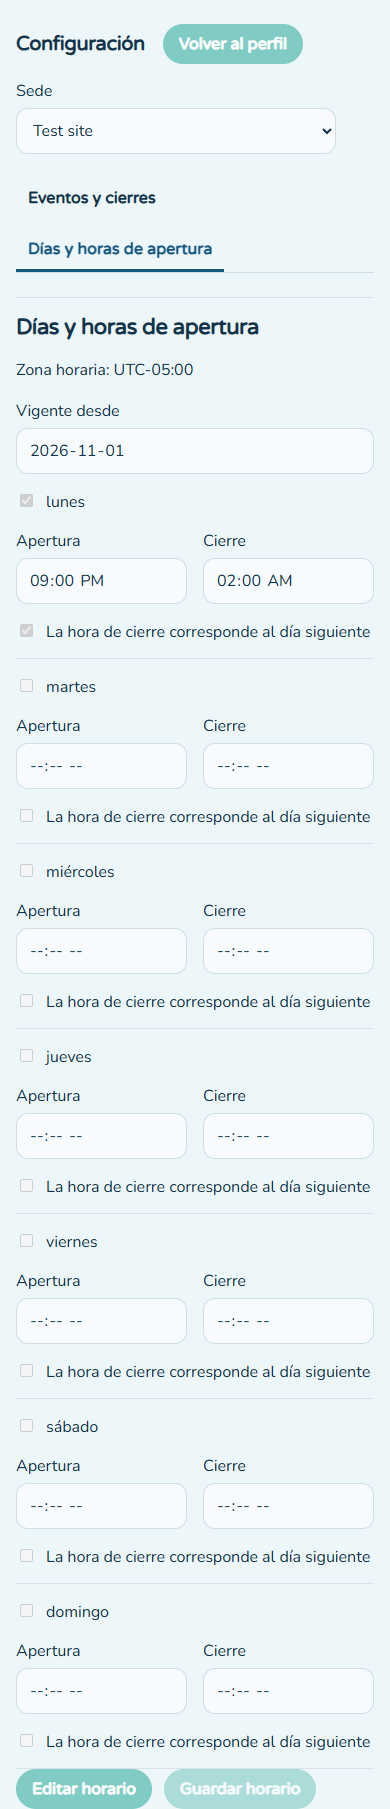
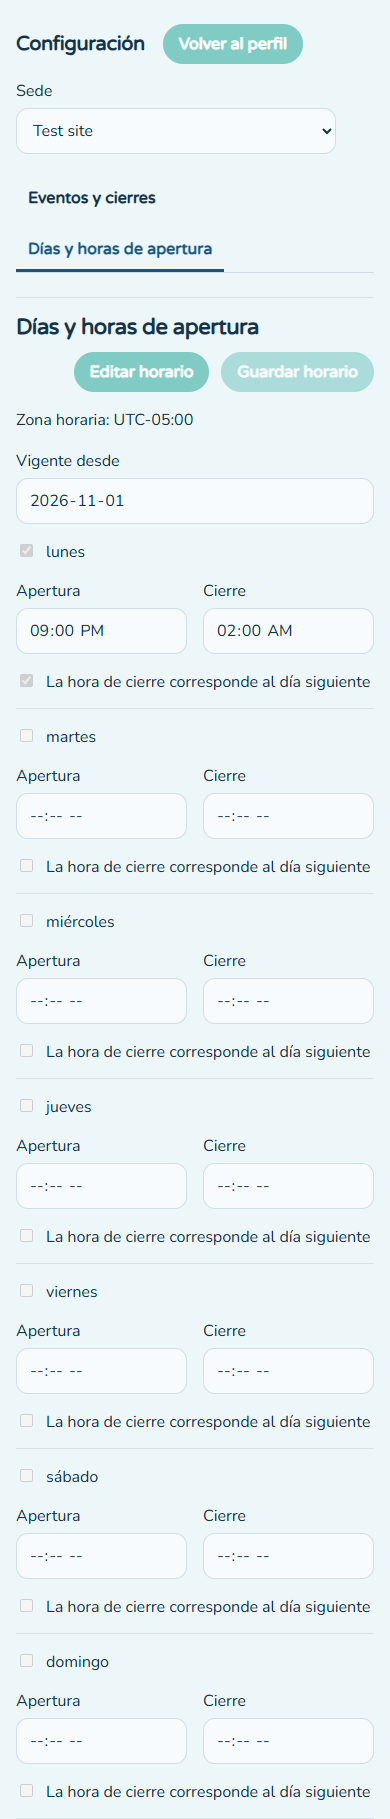
Standardize currency codes and move opening-hours actions to header

diff --git a/src/components/profile/BusinessCalendarSettings.tsx b/src/components/profile/BusinessCalendarSettings.tsx
@@ -43,15 +43,18 @@ export default function BusinessCalendarSettings({ site, zone, view }: { site: n
   const visibleDates = data?.calendar.dates.filter(item => item.date.startsWith(month)) ?? []
   function onSaved() { setSaved(true); setRevision(value => value + 1) }
   return <section className="calendar-settings-panel">
-    <h2>{view === "hours" ? text.hours : text.calendar}</h2>
-    <p>{text.zone}: {formatTimeZoneLabel(data?.businessTimeZone || zone)}</p>
+    {(view !== "hours" || !ready) && <>
+      <h2>{view === "hours" ? text.hours : text.calendar}</h2>
+      <p>{text.zone}: {formatTimeZoneLabel(data?.businessTimeZone || zone)}</p>
+    </>}
     {failed && <ErrorMessage message={text.error} onDismiss={() => setFailed(false)} />}
-    {saved && <p role="status">{text.saved}</p>}
+    {saved && (view !== "hours" || !ready) && <p role="status">{text.saved}</p>}
     {view === "calendar" && <label className="calendar-month-select">{text.month}<input type="month" value={month}
       onChange={event => { if (event.target.value) { setSaved(false); setMonth(event.target.value); setSelected(event.target.value + "-01") } }} /></label>}
     {!ready ? !failed && <p role="status">{text.loading}</p> : view === "hours"
       ? <HoursEditor key={loadKey} site={site} effective={data.calendar.effectiveFrom || companyToday(zone)}
-          initial={data.calendar.weekdays} configured={!!data.calendar.effectiveFrom} onSaved={onSaved} onEdit={() => setSaved(false)} />
+          initial={data.calendar.weekdays} configured={!!data.calendar.effectiveFrom} onSaved={onSaved} onEdit={() => setSaved(false)}
+          zone={data.businessTimeZone || zone} saved={saved} />
       : <>
         <div className="business-calendar-layout">
           <div className="business-calendar" role="group" aria-label={text.calendar}>
@@ -83,8 +86,8 @@ export default function BusinessCalendarSettings({ site, zone, view }: { site: n
   </section>
 }
 
-function HoursEditor({ site, initial, effective, configured, onSaved, onEdit }: {
-  site: number; initial: OpeningDay[]; effective: string; configured: boolean; onSaved: () => void; onEdit: () => void
+function HoursEditor({ site, initial, effective, configured, onSaved, onEdit, zone, saved }: {
+  site: number; initial: OpeningDay[]; effective: string; configured: boolean; onSaved: () => void; onEdit: () => void; zone: string; saved: boolean
 }) {
   const { language, copy } = useI18n()
   const text = calendarCopy[language]
@@ -106,6 +109,18 @@ function HoursEditor({ site, initial, effective, configured, onSaved, onEdit }: 
     finally { setBusy(false) }
   }
   return <form onSubmit={submit}>
+    <div className="opening-hours-header">
+      <h2>{text.hours}</h2>
+      <div className="form-actions">
+        {!editing && <button type="button" disabled={busy} onClick={() => { setEditing(true); setError(false); onEdit() }}>{text.editHours}</button>}
+        {editing && configured && <button type="button" className="secondary-button" disabled={busy} onClick={() => {
+          setFrom(effective); setDays(openingDaysForForm(initial)); setEditing(false); setError(false)
+        }}>{copy.common.cancel}</button>}
+        <button type="submit" disabled={busy || !editing || !dirty}>{text.saveHours}</button>
+      </div>
+    </div>
+    <p>{text.zone}: {formatTimeZoneLabel(zone)}</p>
+    {saved && <p role="status">{text.saved}</p>}
     {error && <ErrorMessage message={text.error} onDismiss={() => setError(false)} />}
     <fieldset className="calendar-fields" disabled={busy || !editing}>
       <label>{text.effective}<input type="date" value={from} required onChange={event => setFrom(event.target.value)} /></label>
@@ -124,13 +139,6 @@ function HoursEditor({ site, initial, effective, configured, onSaved, onEdit }: 
         </div>
       })}
     </fieldset>
-    <div className="form-actions">
-      {!editing && <button type="button" disabled={busy} onClick={() => { setEditing(true); setError(false); onEdit() }}>{text.editHours}</button>}
-      {editing && configured && <button type="button" className="secondary-button" disabled={busy} onClick={() => {
-        setFrom(effective); setDays(openingDaysForForm(initial)); setEditing(false); setError(false)
-      }}>{copy.common.cancel}</button>}
-      <button type="submit" disabled={busy || !editing || !dirty}>{text.saveHours}</button>
-    </div>
   </form>
 }
 

diff --git a/src/index.css b/src/index.css
@@ -753,6 +753,10 @@ td {
 .calendar-settings-panel { border-top: 1px solid #d8e3e9; padding-top: 16px; }
 .calendar-settings-panel h2 { font-size: 22px; }
 .calendar-settings-panel > h3 { margin-top: 24px; }
+.opening-hours-header { display: flex; align-items: center; justify-content: space-between; flex-wrap: wrap; gap: 12px 20px; }
+.opening-hours-header h2 { margin: 0; min-width: 0; overflow-wrap: anywhere; }
+.opening-hours-header .form-actions { margin-left: auto; justify-content: flex-end; max-width: 100%; }
+.opening-hours-header button { max-width: 100%; }
 .calendar-fields { border: 0; padding: 0; margin: 0; min-width: 0; display: grid; gap: 16px; }
 .calendar-fields label { display: grid; gap: 6px; min-width: 0; }
 .calendar-fields input, .calendar-fields select, .calendar-fields textarea { box-sizing: border-box; min-width: 0; width: 100%; }
@@ -771,6 +775,7 @@ td {
 .calendar-recorded-dates span { overflow-wrap: anywhere; }
 .opening-hours-row { display: grid; grid-template-columns: minmax(120px, 1fr) minmax(100px, 1fr) minmax(100px, 1fr) minmax(130px, 1fr); gap: 16px; align-items: center; border-bottom: 1px solid #d8e3e9; padding-bottom: 14px; }
 @media (max-width: 700px) {
+  .opening-hours-header .form-actions { width: 100%; }
   .business-calendar-layout { grid-template-columns: minmax(0, 1fr); }
   .opening-hours-row { grid-template-columns: repeat(2, minmax(0, 1fr)); }
   .opening-hours-row > label:first-child, .opening-hours-row > label:last-child { grid-column: 1 / -1; }

diff --git a/src/components/dashboard/TopProductsTable.tsx b/src/components/dashboard/TopProductsTable.tsx
@@ -6,10 +6,11 @@ type Props = {
   rows: TopProductResponse[]
   profitRows: TopProductResponse[]
   lowest?: boolean
+  currency: string
 }
 
-export default function TopProductsTable({ rows, profitRows, lowest = false }: Props) {
-  const { copy } = useI18n()
+export default function TopProductsTable({ rows, profitRows, lowest = false, currency }: Props) {
+  const { copy, language } = useI18n()
   const text = copy.topProductsTable
   const title = lowest ? text.lowestTitle : text.title
 
@@ -42,8 +43,8 @@ export default function TopProductsTable({ rows, profitRows, lowest = false }: P
                 <td>{row.productName}</td>
                 <td>{row.sku}</td>
                 <td>{formatNumber(row.totalQuantitySold)}</td>
-                <td>{formatCurrency(row.totalSalesAmount)}</td>
-                <td>{formatCurrency(row.totalProfitAmount)}</td>
+                <td>{formatCurrency(row.totalSalesAmount, currency, language)}</td>
+                <td>{formatCurrency(row.totalProfitAmount, currency, language)}</td>
               </tr>
             ))
           )}

diff --git a/src/pages/DashboardPage.tsx b/src/pages/DashboardPage.tsx
@@ -169,8 +169,8 @@ function DashboardContent({ user, token }: { user: AuthenticatedUserResponse; to
           notice={notice} loading={forecast.loading} />
       </div>
       <div className="dashboard-bottom-grid">
-        <TopProductsTable rows={topProducts} profitRows={topProfitProducts} />
-        <TopProductsTable rows={lowestSalesProducts} profitRows={lowestProfitProducts} lowest />
+        <TopProductsTable rows={topProducts} profitRows={topProfitProducts} currency={currency || "USD"} />
+        <TopProductsTable rows={lowestSalesProducts} profitRows={lowestProfitProducts} currency={currency || "USD"} lowest />
       </div>
       <div className="dashboard-section"><LowStockTable rows={lowStock} /></div>
     </>}

diff --git a/src/utils/format.ts b/src/utils/format.ts
@@ -2,6 +2,7 @@ export function formatCurrency(value: number, currency = "USD", locale = "en-US"
   return new Intl.NumberFormat(locale, {
     style: "currency",
     currency,
+    currencyDisplay: "code",
     minimumFractionDigits: 2,
     maximumFractionDigits: 2,
   }).format(value)
